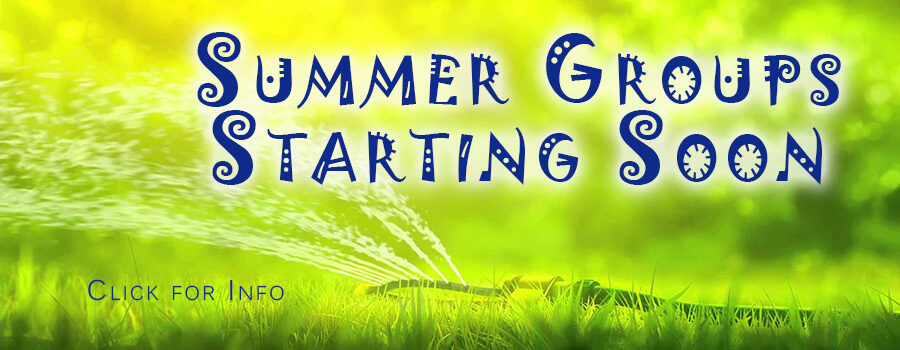
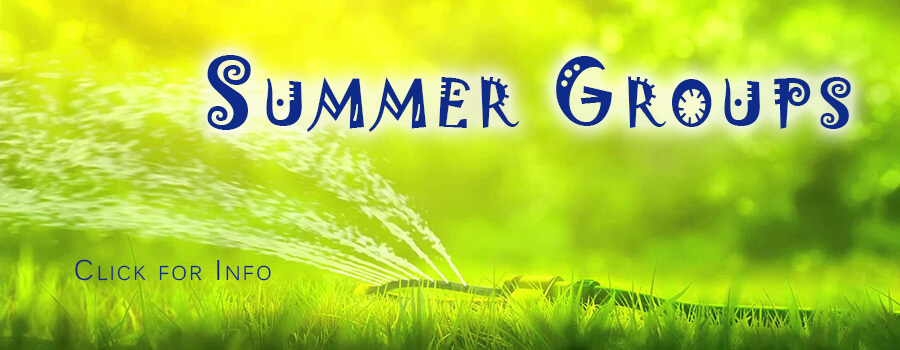
update

Changed region(s): [[0.1867, 0.0286, 0.9644, 0.6], [0.0622, 0.7429, 0.3111, 0.8571]]

diff --git a/css/main.css b/css/main.css
@@ -275,7 +275,6 @@ select {
 #hp_info_sig img {
     padding: 0;
     border-radius: 5px;
-    box-shadow: black 0px 8px 15px;
 }
 
 #hp_info_dub {

diff --git a/mini.php b/mini.php
@@ -9,6 +9,8 @@ body {
     background:url(img/bkg_mini.jpg);
     background-position: center center;
     background-position: top;
+		background-color: #000000;
+		background-repeat: repeat-x;
 }
 </style>
 
@@ -25,15 +27,28 @@ body {
 
 		<div id="info_block">
         <div id="info_sig">
-					<ul>
-						<li><span>Ladies</span> (Listening to God) starting Wednesday, June 8th @ 7pm.</li>
-						<li><span>Mixed</span> (Truth Project) starting Tuesday, June 7th @ 7pm.</li>
-						<li><span>Couples</span> (Healthy Marriage) bi-weekly starting Sun, June 12th @ 4pm.</li>
+					<p style="text-align:center;">The summer groups are full and new groups will be starting in the Fall</p> </br>
+					<ul style="text-align:center;">
+						<li><span>Mixed</span> (Truth Project) Tuesday Night, @ 7pm.</li>
+						<li><span>Ladies</span> (Listening to God) Wednesday Night @ 7pm.</li>
+						<li><span>Couples</span> (Healthy Marriage) bi-weekly Sundays @ 4pm.</li>
 					</ul>
 				</div>
 
     </div>
 
+		<div id=""><img src="img/ban_bsm.jpg" alt="Berean Student Ministries"></div>
+			<div id="info_block">
+		    <p>Berean Student Ministry is an extension of Berean in Southern New Jersey area. We are committed to coming alongside students and giving them a place where they can feel accepted and cared for. Our mission is to connect students with God and others.</p>
+			</div>
+
+
+		<div id=""><img src="img/ban_kidkove.jpg" alt="kids kove"></div>
+
+		<div id="info_block">
+
+				<p><span>KIDS KOVE</span> is for ages 4 thru 6th grade.  We want kids to learn about God in a fun and exciting way.  Families get to come to the Worship Gathering together and after the song service, the kids go to the KIDS KOVE where they build friendships and learn about God in a way that is appropriate for them.  We value safety, so all of our volunteers have been trained to work effectively with kids as well as had a background check.</p>
+		</div>
 
     <!-- <div id="info_quad"><h1>Nursery</h1><p>During our church services we have a nursery ministry for children from 6 weeks till 3 years. You'll find our nursery to be clean, organized, safe and fun for them. Our staff consists of volunteer church members that love children &amp; don't mind changing that stinky diaper!</p>
     </div>

diff --git a/index.php b/index.php
@@ -55,18 +55,20 @@ body {
     <div id="serv_time">
 			<div id="serv_item"><span>Sunday 10:30am</span> - Worship Gathering</div>
 			<!-- <div id="serv_item"><span>Wednesday 7:00pm</span> - <a href="mini.php">Life Groups, Awana, Youth Group</a></div> -->
-			<div id="serv_item"><span>Tuesday 7:00pm</span> - Ladies - Listening to God</div>
-			<div id="serv_item"><span>Wednesday 7:00pm</span> - Mixed Group - The Truth Project</div>
+			<div id="serv_item"><span>Tuesday 7:00pm</span> - Mixed Group - The Truth Project</div>
+			<div id="serv_item"><span>Wednesday 7:00pm</span> - Ladies - Listening to God</div>
 			<div id="serv_item"><span>Sunday bi-weekly 4:00pm</span> - Couples (Healthy Marriage)</div>
+		  <p style="text-align:center;">The summer groups are full and new groups will be starting in the Fall</p>
     </div>
 
 
     <div id="hp_info_con">
-				<div id="hp_info_sig"><a href="mini.php" title="Grow with us"><img src="img/info_connection.jpg" alt="connection station"></a></div>
+				<!-- <div id="hp_info_sig"><a href="mini.php" title="Grow with us"><img src="img/info_connection.jpg" alt="connection station"></a></div> -->
         <div id="hp_info_sig"><a href="mini.php" title="summer groups" target="_blank"><img src="img/info_summer.jpg" alt="Summer Groups"></a></div>
         <div id="hp_info_sig"><a href="prayer.php" title="How Can We Pray For You"><img src="img/ele_pray.jpg" alt="How Can We Pray For You"></a></div>
         <!-- <div id="hp_info_sig"><a href="mini.php" title="Grow with us"><img src="img/info_life.jpg" alt="Life Groups"></a></div> -->
         <div id="hp_info_sig"><a href="new.php" title="I'm New"><img src="img/ele_new.jpg" alt="I'm New"></a></div>
+				<div id="hp_info_sig"><a href="history.php" title="Our History"><img src="img/info_history.jpg" alt="Who we are"></a></div>
 
     </div>
 </div>
